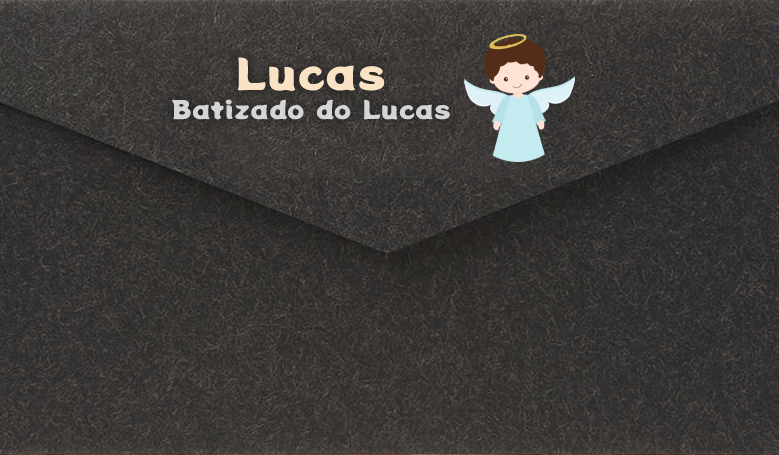
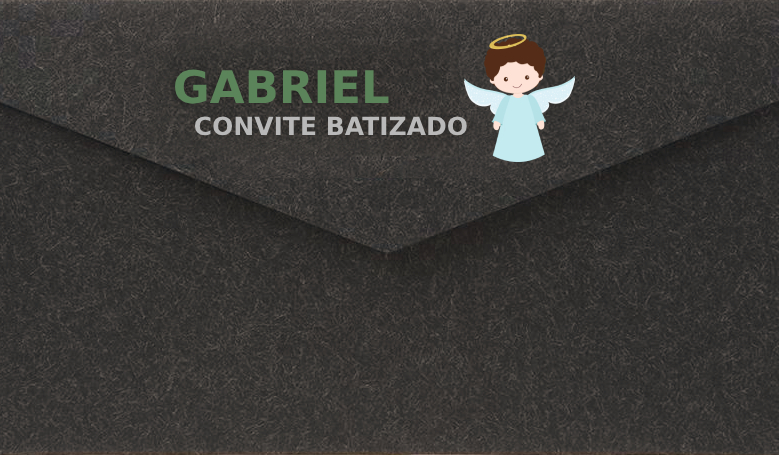
feat: update for gabriel

Changed region(s): [[0.2157, 0.1231, 0.6162, 0.3077]]

diff --git a/src/App.tsx b/src/App.tsx
@@ -1,11 +1,10 @@
-import { atcb_action, atcb_init } from 'add-to-calendar-button'
+import { atcb_init } from 'add-to-calendar-button'
 import { useEffect, useState } from 'react'
-import { FiPhone, FiCalendar, FiMapPin } from 'react-icons/fi'
+import { FiCalendar, FiMapPin } from 'react-icons/fi'
 
 import 'add-to-calendar-button/assets/css/atcb.min.css'
 import 'animate.css'
 import './App.scss'
-import { func } from 'prop-types'
 
 function App() {
   const [openInvite, setOpenInvite] = useState(false)
@@ -42,16 +41,22 @@ function App() {
         <img src="/invite.jpeg" alt="invite" />
       </article>
       <aside>
-        <h1>Batizado do Lucas</h1>
+        <h1>Convite do Gabriel</h1>
         <div className="aside-content">
-          <h2 className="confirm">Meu Aniversário</h2>
+          <h2 className="confirm">Batizado & Aniversário</h2>
           <div className="details">
             <div>
+              <h3>Eliene e Erivelton</h3>
               <p>
-                Após o Batismo, vamos comemorar o meu um aninho na casa da minha
-                vovó Beta.
+                Tem o prazer de convidar para o Batizado e aniversário de 2 anos
+                do Gabriel.
               </p>
-              <p>Conto com a sua presença.</p>
+              <p>Ficaremos muitos felizes com sua presença.</p>
+              <br />
+              <small>
+                *Pedimos que cada pessoa leva a sua bebida - refri, sucos,
+                cerveja ou o que desejar .
+              </small>
             </div>
           </div>
         </div>
@@ -61,16 +66,17 @@ function App() {
           <div className="details">
             <FiCalendar />
             <div>
-              <p>Dia 29.01.2023, a partir de 08:00 horas.</p>
+              <p>Dia 23.07.2023, Batizado 9:00 hrs, Aniversário 12:00 hrs.</p>
               <div className="atcb">
                 {'{'}
-                "name":"BATIZADO DO LUCAS", "description":"Chegou o dia do meu
-                batizado e papai do céu vai me abençoar. Espero voces ness dia
-                especial. Convite:→
-                [url]https://lucas-convite.vercel.app/[/url]",
-                "startDate":"2023-01-29T08:00", "endDate":"2023-01-29T18:00",
-                "location":"R. Davi Mussi, 35 - Novo Cruzeiro, MG, 39820-000,
-                Brasil", "label":"Adicionar ao calendário", "options":[ "Apple",
+                "name":"Batizado & Aniversário Gabriel", "description":"Tem o
+                prazer de convidar para o Batizado e aniversário de 2 anos do
+                Gabriel. Convite:→
+                [url]https://gabriel-convite.vercel.app/[/url]",
+                "startDate":"2023-07-23T09:00", "endDate":"2023-07-23T18:00",
+                "location":"Igreja Matriz do Imaculado Coração de Maria, R.
+                Antônio Bacchi, 1065 - Paulicéia, Piracicaba - SP, 13424-070",
+                "label":"Adicionar ao calendário", "options":[ "Apple",
                 "Google", "Outlook.com" ], "timeZone":"Europe/Berlin",
                 "inline":true, "trigger":"click"
                 {'}'}
@@ -83,18 +89,25 @@ function App() {
           <div className="details">
             <FiMapPin />
             <div>
-              <h3>Igreja Matriz de Novo Cruzeiro</h3>
+              <h3>Igreja Matriz do Imaculado Coração de Maria</h3>
               <br />
-              <a target="_blank" href="https://goo.gl/maps/XzijNdn72hTboyW68">
+              <a target="_blank" href="https://goo.gl/maps/SYYPQjMyrtf8raF76">
+                Ver no mapa do google
+              </a>
+            </div>
+          </div>
+          <div className="details">
+            <FiMapPin />
+            <div>
+              <h3>Edicula R & A</h3>
+              <br />
+              <a target="_blank" href="https://goo.gl/maps/3PyHYZb9hwcaVH2m8">
                 Ver no mapa do google
               </a>
             </div>
           </div>
         </div>
       </aside>
-      {/* <section className="map">
-        <iframe src="https://www.google.com/maps/embed?pb=!1m18!1m12!1m3!1d63607526.30450975!2d-55.750230280919084!3d13.331897585614913!2m3!1f0!2f0!3f0!3m2!1i1024!2i768!4f13.1!3m3!1m2!1s0xb3212bcee9c047%3A0xb6d0d580599b6df7!2sIgreja%20Matriz%20Par%C3%B3quia%20de%20S%C3%A3o%20Bento!5e0!3m2!1spt-BR!2sde!4v1673810972792!5m2!1spt-BR!2sde" width="600" height="450" style="border:0;" allowfullscreen="" loading="lazy" referrerpolicy="no-referrer-when-downgrade"></iframe>
-      </section> */}
     </main>
   )
 }

diff --git a/index.html b/index.html
@@ -1,25 +1,25 @@
 <!DOCTYPE html>
-<html lang="en">
+<html lang="pt">
   <head>
     <meta charset="UTF-8" />
     <link rel="icon" type="image/png" href="/favicon.png" />
     <meta name="viewport" content="width=device-width, initial-scale=1.0" />
-    <title>Batizado do Lucas</title>
+    <title>Batizado & Aniversário do Gabriel</title>
     <meta
       name="description"
-      content="Chegou o dia do meu batizado e papai do céu vai me abençoar. Espero voces ness dia especial. 😀"
+      content="Tem o prazer de convidar para o Batizado e aniversário de 2 anos do Gabriel. 😀"
     />
 
-    <meta property="og:url" content="https://endry-convite.vercel.app/" />
+    <meta property="og:url" content="https://gabriel-convite.vercel.app/" />
     <meta property="og:type" content="article" />
-    <meta property="og:title" content="Batizado do Lucas" />
+    <meta property="og:title" content="Batizado & Aniversário do Gabriel" />
     <meta
       property="og:description"
-      content="Chegou o dia do meu batizado e papai do céu vai me abençoar. Espero voces ness dia especial. 😀"
+      content="Tem o prazer de convidar para o Batizado e aniversário de 2 anos do Gabriel. 😀"
     />
     <meta
       property="og:image"
-      content="https://lucas-convite.vercel.app/preview.jpeg"
+      content="https://gabriel-convite.vercel.app/preview.jpeg"
     />
   </head>
   <body>

diff --git a/src/App.scss b/src/App.scss
@@ -35,14 +35,14 @@
     }
 
     &:hover img {
-      border: 4px solid rgba(255, 165, 0, 0.9);
+      border: 4px solid rgba(170, 255, 0, 0.9);
     }
 
     img {
       width: 100%;
       height: auto;
       box-shadow: 5px 5px 10px rgba(0, 0, 0, 0.3);
-      border: 4px solid rgba(255, 214, 118, 0.5);
+      border: 4px solid rgba(198, 255, 118, 0.5);
       border-radius: 25px;
       z-index: 1;
       transition: border 0.5s;

diff --git a/src/index.css b/src/index.css
@@ -18,8 +18,8 @@ body {
   background-color: rgb(255, 249, 230);
   background: linear-gradient(
     180deg,
-    rgb(255, 243, 203) 0%,
-    rgb(157, 150, 80) 100%
+    rgb(233, 255, 203) 0%,
+    rgb(115, 157, 80) 100%
   );
   background-attachment: fixed;
   overflow-x: hidden;
